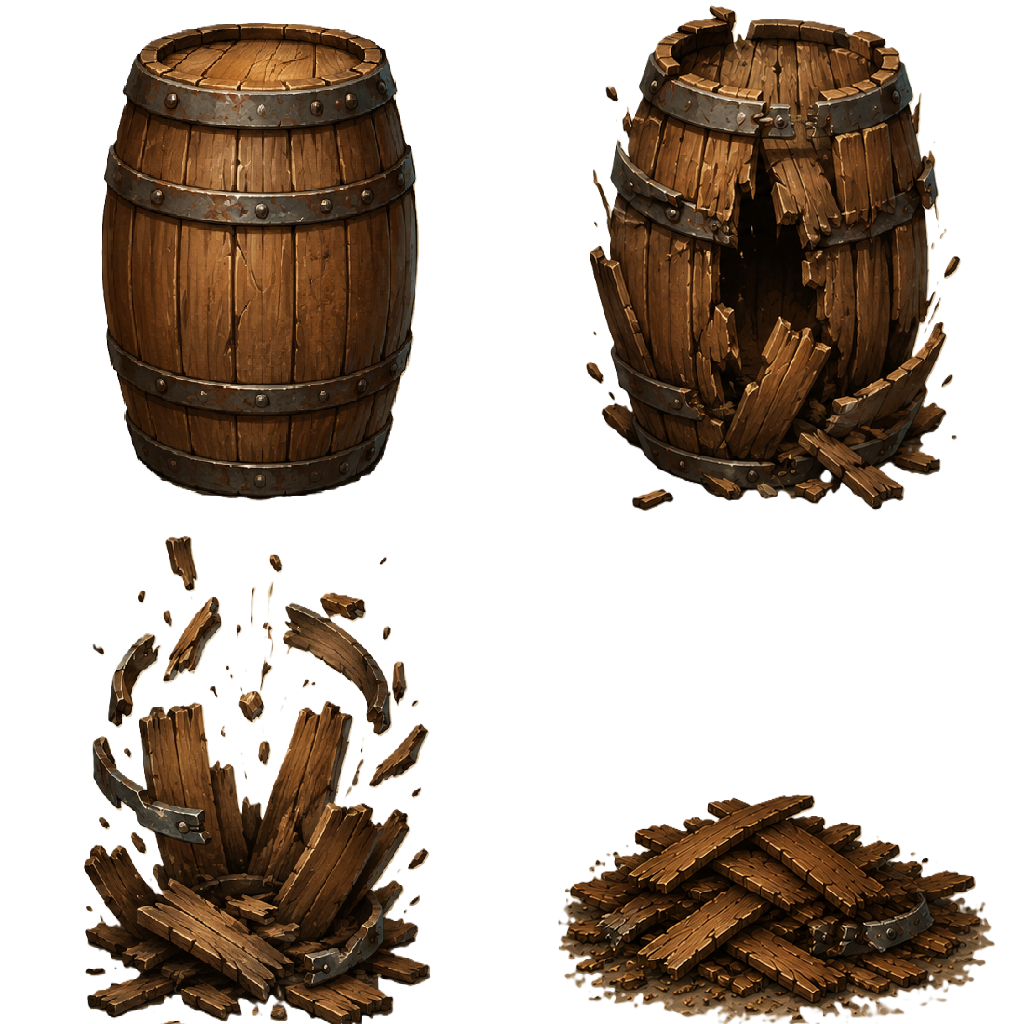
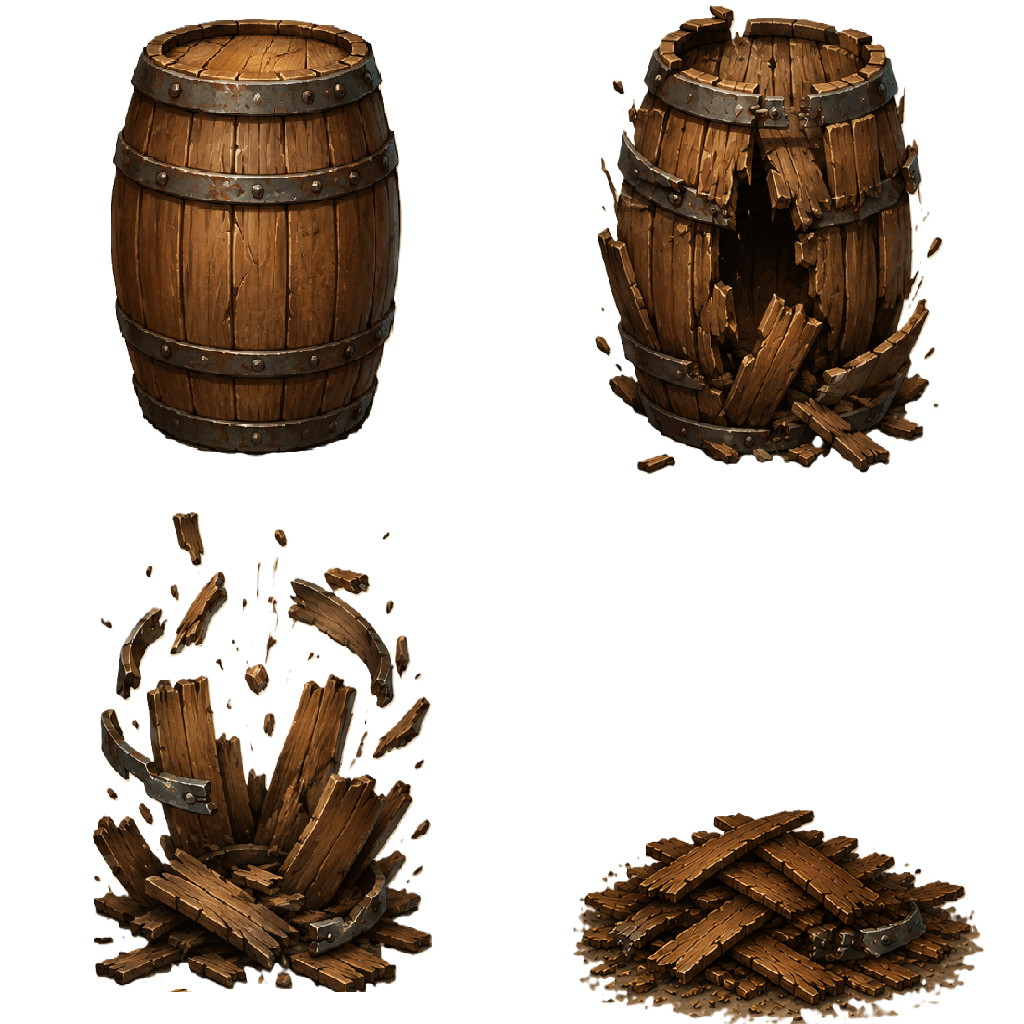
don know allat

diff --git a/src/objects/Target.js b/src/objects/Target.js
@@ -1,11 +1,37 @@
-import { Container, Sprite } from "pixi.js";
+import { AnimatedSprite, Assets, Container, Sprite } from "pixi.js";
 
 export class Target extends Container {
   constructor(id) {
     super();
     this.id = id;
 
-    this.sprite = Sprite.from("target");
+    this.isBroken = false;
+
+    const barrelSheet = Assets.get("barrelSheet");
+    const barrelFrames = [
+      "Sprite-0003 0.",
+      "Sprite-0003 1.",
+      "Sprite-0003 2.",
+      "Sprite-0003 3.",
+    ];
+
+    if (barrelSheet?.textures) {
+      const animationTextures = barrelFrames
+        .map((frameName) => barrelSheet.textures[frameName])
+        .filter(Boolean);
+
+      if (animationTextures.length) {
+        this.sprite = new AnimatedSprite(animationTextures);
+        this.sprite.loop = false;
+        this.sprite.animationSpeed = 0.22;
+        this.sprite.gotoAndStop(0);
+      } else {
+        this.sprite = Sprite.from("target");
+      }
+    } else {
+      this.sprite = Sprite.from("target");
+    }
+
     this.sprite.anchor.set(0.5);
     this.baseScale = 0.2;
     this.sprite.scale.set(1);
@@ -43,13 +69,20 @@ export class Target extends Container {
   }
 
   hit() {
-    this.sprite.tint = 0xff4444;
+    this.isBroken = true;
 
-    this.hitScale = 1.3;
-
-    setTimeout(() => {
+    if (this.sprite instanceof AnimatedSprite) {
       this.sprite.tint = 0xffffff;
-    }, 150);
+      this.sprite.gotoAndPlay(1);
+    } else {
+      this.sprite.tint = 0xff4444;
+
+      setTimeout(() => {
+        this.sprite.tint = 0xffffff;
+      }, 150);
+    }
+
+    this.hitScale = 1;
   }
 
   setEnabled(value) {
@@ -58,6 +91,14 @@ export class Target extends Container {
 
   setSelected(value) {
     this.selected = value;
+
+    if (!value && this.isBroken) {
+      if (this.sprite instanceof AnimatedSprite) {
+        this.sprite.gotoAndStop(0);
+      }
+
+      this.isBroken = false;
+    }
 
     this.sprite.tint = value ? 0xffdd55 : 0xffffff;
   }

diff --git a/src/main.js b/src/main.js
@@ -21,17 +21,58 @@ appRoot.style.height = "100vh";
 appRoot.style.overflow = "hidden";
 
 appRoot.innerHTML = `
-  <div id="game-shell" style="width:100%; height:100%; background:#000;">
-    <div id="canvas-host" style="position:relative; width:100%; height:100%; overflow:hidden;">
-      <div id="controls-root" style="position:absolute; inset:0; pointer-events:none; z-index:20;"></div>
+  <style>
+    #game-shell {
+      width: 100%;
+      height: 100%;
+      display: grid;
+      grid-template-rows: 3fr 1fr;
+      background: #000;
+    }
+
+    #canvas-host {
+      position: relative;
+      width: 100%;
+      height: 100%;
+      overflow: hidden;
+    }
+
+    #hud-root {
+      position: absolute;
+      inset: 0;
+      pointer-events: none;
+      z-index: 2;
+    }
+
+    #controls-root {
+      position: relative;
+      width: 100%;
+      height: 100%;
+      overflow: hidden;
+      z-index: 3;
+    }
+
+    @media (max-width: 900px) {
+      #game-shell {
+        grid-template-rows: 2.5fr 1.5fr;
+      }
+    }
+  </style>
+  <div id="game-shell">
+    <div id="canvas-host">
+      <div id="hud-root"></div>
     </div>
+    <div id="controls-root"></div>
   </div>
 `;
 
 const canvasHost = document.getElementById("canvas-host");
+const hudRootElement = document.getElementById("hud-root");
 const controlsRootElement = document.getElementById("controls-root");
 
-createRoot(controlsRootElement).render(React.createElement(GameControlPanel));
+createRoot(controlsRootElement).render(
+  React.createElement(GameControlPanel, { hudRootElement }),
+);
 
 canvasHost.appendChild(app.canvas);
 

diff --git a/src/managers/TargetManager.js b/src/managers/TargetManager.js
@@ -16,18 +16,35 @@ export class TargetManager extends Container {
 
     const horizontalPadding = Screen.clamp(Screen.width * 0.08, 40, 120);
     const availableWidth = Math.max(220, Screen.width - horizontalPadding * 2);
-    const spacing =
-      count > 1
-        ? Screen.clamp(availableWidth / (count - 1), 120, 320)
-        : 0;
 
     const topBound = Screen.clamp(Screen.height * 0.18, 90, 260);
     const bottomBound = Math.max(
       topBound + 80,
       panelTop - Screen.clamp(Screen.height * 0.16, 120, 240)
     );
-    const targetY = (topBound + bottomBound) / 2;
-    const targetScale = Screen.clamp(Screen.shortEdge / 900 * 0.2, 0.14, 0.25);
+    const targetYOffset = Screen.isPortrait ? Screen.clamp(Screen.height * 0.015, 14, 28) : 0;
+    const targetY = (topBound + bottomBound) / 2 + targetYOffset;
+    const targetScale = Screen.isPortrait
+      ? Screen.clamp(Screen.shortEdge / 900 * 0.26, 0.18, 0.32)
+      : Screen.clamp(Screen.shortEdge / 900 * 0.48, 0.38, 0.56);
+
+    const spreadRatioByCount = {
+      2: 0.72,
+      3: 0.56,
+      4: 0.46,
+    };
+
+    const spreadRatio = spreadRatioByCount[count] ?? Screen.clamp(0.78 - count * 0.08, 0.4, 0.72);
+    const desiredSpread = availableWidth * spreadRatio;
+
+    const estimatedTargetSize = 512 * targetScale;
+    const minSpacing = estimatedTargetSize * (Screen.isPortrait ? 0.52 : 0.62);
+    const maxSpacing = estimatedTargetSize * (Screen.isPortrait ? 0.92 : 1.02);
+
+    const spacing =
+      count > 1
+        ? Screen.clamp(desiredSpread / (count - 1), minSpacing, maxSpacing)
+        : 0;
 
     const startX = Screen.centerX - ((count - 1) * spacing) / 2;
 

diff --git a/src/scenes/GameplayScene.js b/src/scenes/GameplayScene.js
@@ -481,8 +481,14 @@ export class GameplayScene extends Scene {
 
   layoutScene() {
     if (this.bg) {
-      this.bg.width = Screen.width;
-      this.bg.height = Screen.height;
+      const textureWidth = this.bg.texture?.orig?.width || this.bg.texture?.width || Screen.width;
+      const textureHeight = this.bg.texture?.orig?.height || this.bg.texture?.height || Screen.height;
+      const scale = Math.max(Screen.width / textureWidth, Screen.height / textureHeight);
+
+      this.bg.anchor.set(0.5, 1);
+      this.bg.scale.set(scale);
+      this.bg.x = Screen.centerX;
+      this.bg.y = Screen.height;
     }
 
     if (this.gun) {

diff --git a/src/managers/AssetManager.js b/src/managers/AssetManager.js
@@ -3,13 +3,13 @@ import { Assets } from "pixi.js";
 export class AssetManager {
   static async load() {
     Assets.add({
-      alias: "target",
-      src: "/images/Target.png",
+      alias: "barrelSheet",
+      src: "/images/Barrel.json",
     });
 
     Assets.add({
       alias: "background",
-      src: "/images/Background.png",
+      src: "/images/Background-Cowboy.png",
     });
 
     Assets.add({
@@ -22,6 +22,6 @@ export class AssetManager {
       src: "/images/Crosshair.png",
     });
 
-    await Assets.load(["background", "target", "gun", "crosshair"]);
+    await Assets.load(["background", "barrelSheet", "gun", "crosshair"]);
   }
 }

diff --git a/src/objects/Gun.js b/src/objects/Gun.js
@@ -19,7 +19,10 @@ export class Gun extends Container {
     }
 
     setResponsiveScale() {
-        const scale = Screen.clamp(Screen.shortEdge / 900 * 0.5, 0.34, 0.62);
+        const baseScale = Screen.shortEdge / 900 * 0.5;
+        const scale = Screen.isPortrait
+            ? Screen.clamp(baseScale * 0.62, 0.18, 0.34)
+            : Screen.clamp(baseScale, 0.34, 0.62);
 
         this.sprite.scale.set(scale);
     }